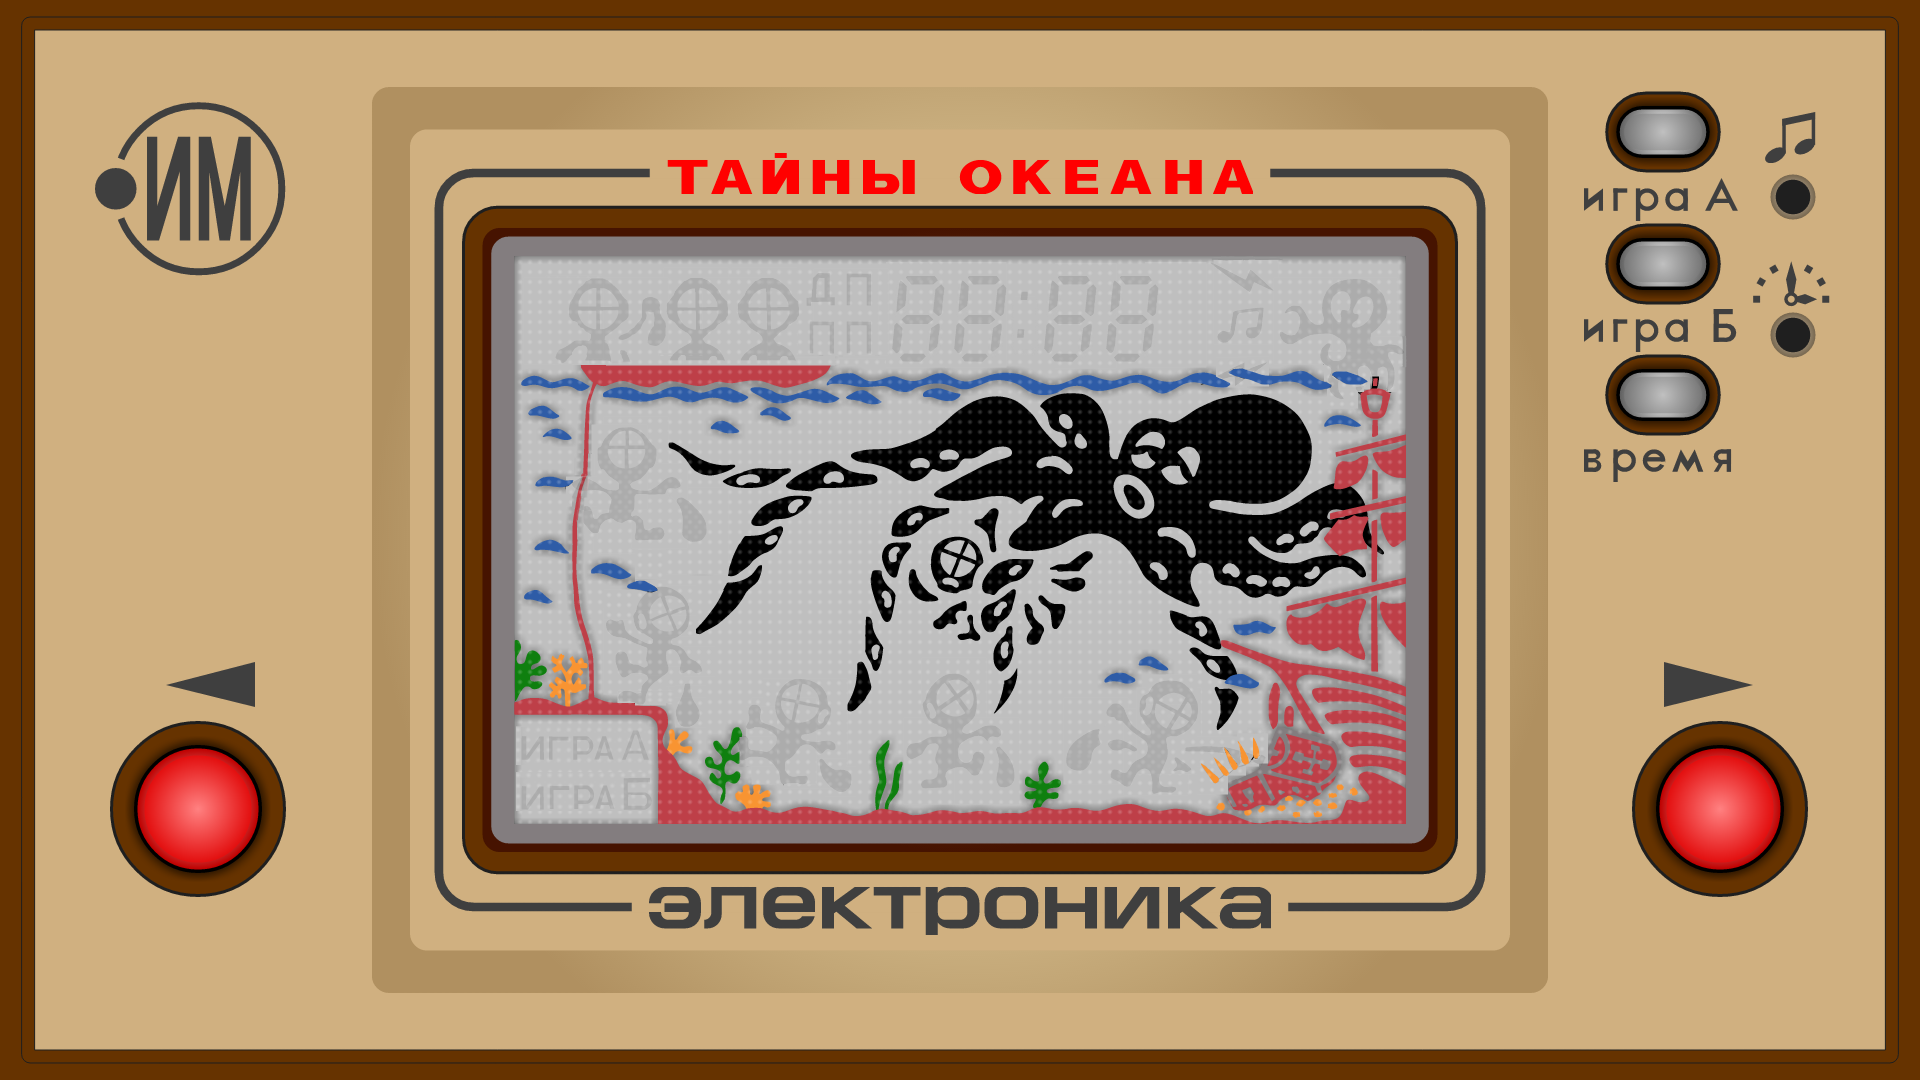
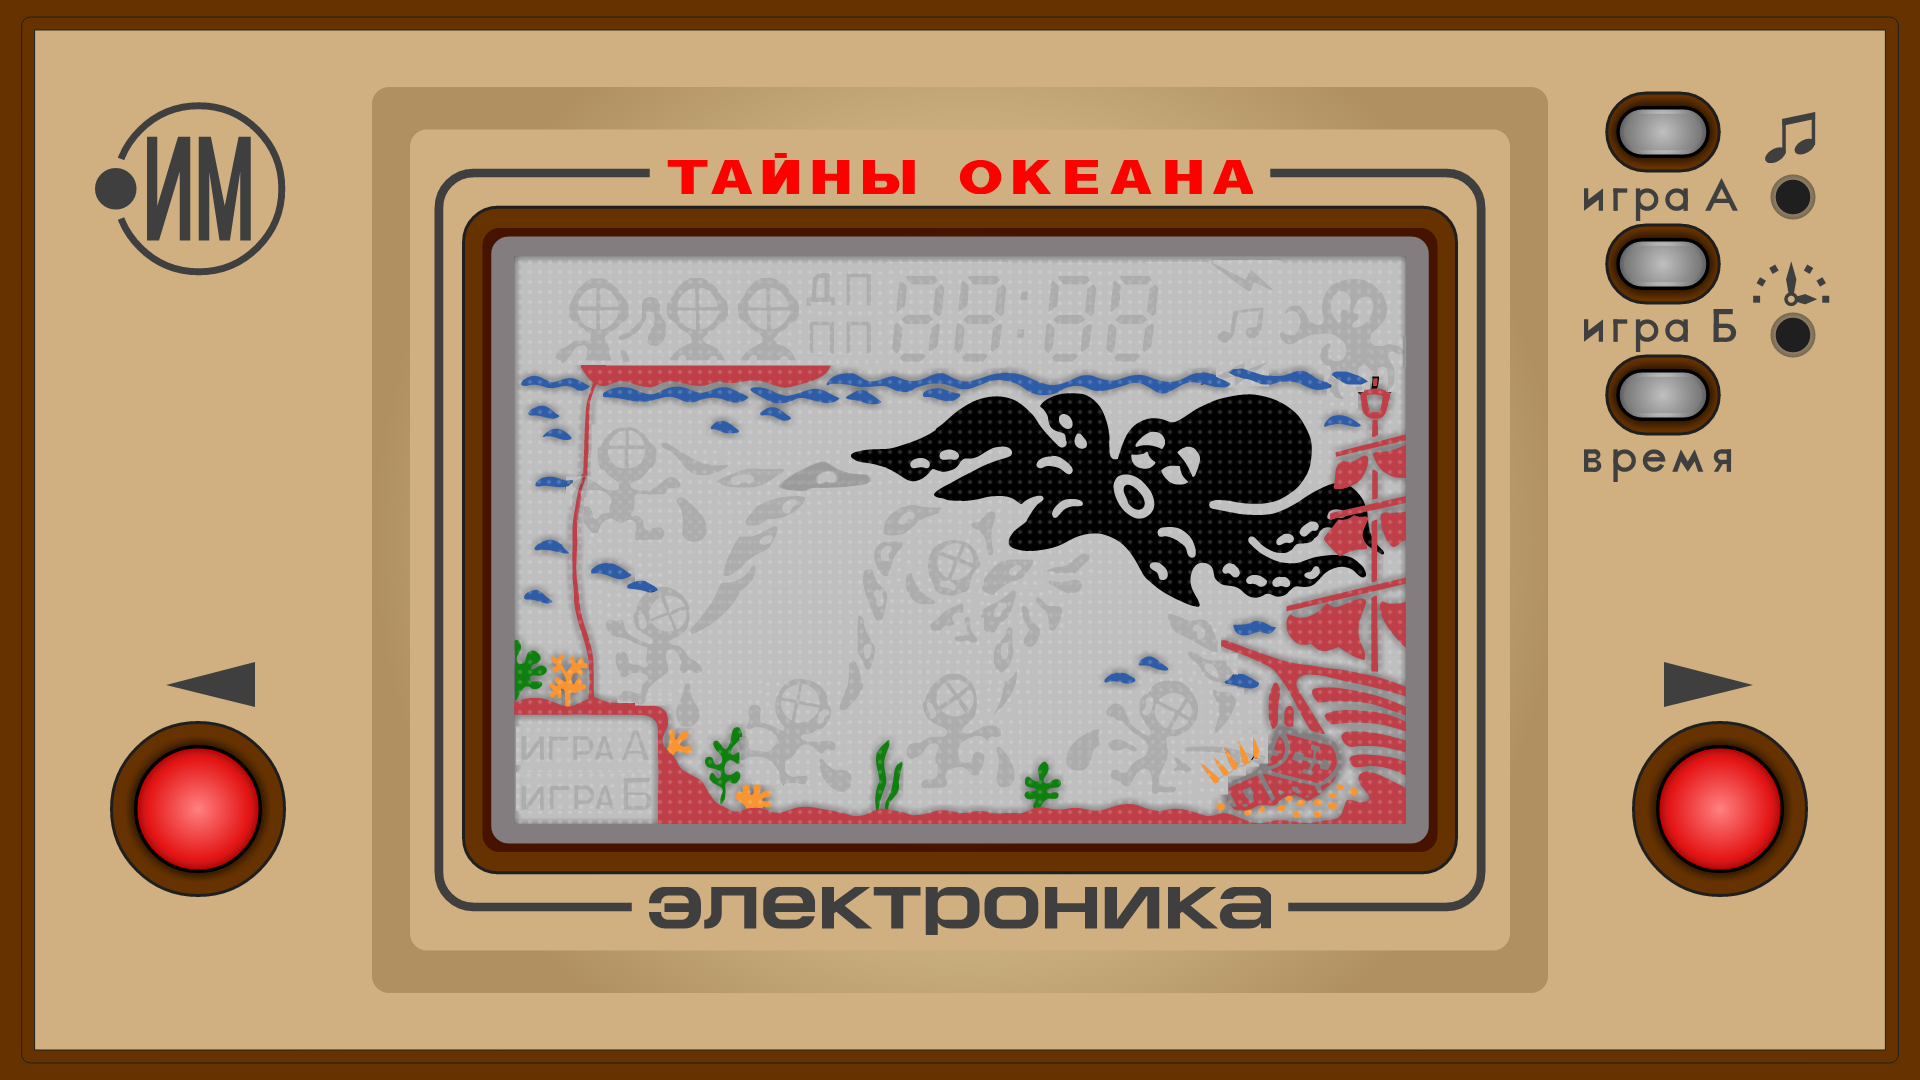
added animation of getting treasure

Changed region(s): [[0.4375, 0.4583, 0.5625, 0.6722], [0.3438, 0.3972, 0.4688, 0.5806], [0.5938, 0.55, 0.6562, 0.6722]]

diff --git a/script.js b/script.js
@@ -1,3 +1,37 @@
+class UI {
+    #digits;
+    #score = 0;
+    #pressedButton;
+
+    constructor() {
+        const digit1 = new Image();
+        digit1.src = './спрайты/интерфейс/-1.png';
+        const digit2 = new Image();
+        digit2.src = './спрайты/интерфейс/-1.png';
+        const digit3 = new Image();
+        digit3.src = './спрайты/интерфейс/-1.png';
+        const digit4 = new Image();
+        digit4.src = './спрайты/интерфейс/-1.png';
+        this.#digits = [digit1, digit2, digit3, digit4];
+
+        const pressedButton = new Image();
+        pressedButton.src = "./спрайты/интерфейс/нажатая кнопка.png"; 
+        this.#pressedButton = pressedButton;
+    }
+
+    getDigits() {
+        return this.#digits;
+    }
+    addScore() {
+        this.#score++;
+        //console.log(this.#score);
+    }
+    getPressedButton() {
+        return this.#pressedButton;
+    }
+}
+
+
 class Diver {
     #diversStates;
     #diversStatesWithoutBag;
@@ -6,45 +40,70 @@ class Diver {
     #isAlive = true;
     #isFirst = false;
     #firstBoatPos = 2;
+    #lastPos = 7;
     #leftBorder = 0;
-
-    // продумать возвращение с мешком и без мешка
-    // придумать собирание сокровища
 
     constructor() {
         const image0 = new Image();
         image0.src = './спрайты/водолазы/водолаз 12.png';
         const image2 = new Image();
-        image2.src = './спрайты/водолазы/водолаз 3.png';
+        image2.src = './спрайты/водолазы/водолаз 3 (без мешка).png';
         const image3 = new Image();
-        image3.src = './спрайты/водолазы/водолаз 4.png';
+        image3.src = './спрайты/водолазы/водолаз 4 (без мешка).png';
         const image4 = new Image();
-        image4.src = './спрайты/водолазы/водолаз 5.png';
+        image4.src = './спрайты/водолазы/водолаз 5 (без мешка).png';
         const image5 = new Image();
-        image5.src = './спрайты/водолазы/водолаз 6.png';
+        image5.src = './спрайты/водолазы/водолаз 6 (без мешка).png';
         const image6 = new Image();
-        image6.src = './спрайты/водолазы/водолаз 7.png';
-        //const image7 = new Image();
-        //image7.src = './водолазы/водолаз 12.png';
-        //const image0 = new Image();
+        image6.src = './спрайты/водолазы/водолаз 7 (без мешка).png';
+        const image7 = new Image();
+        image7.src = './спрайты/водолазы/водолаз 9 (без мешка).png';
+      
         this.#diversStatesWithoutBag = {
             0: { 'x': 550, 'y': 210, 'width': 50, 'height': 60, 'image': image0 },
             1: { 'x': 500, 'y': 210, 'width': 50, 'height': 60, 'image': image0 },
-            2: { 'x': 417, 'y': 210, 'width': 80, 'height': 60, 'image': image2 },
-            3: { 'x': 425, 'y': 320, 'width': 105, 'height': 85, 'image': image3 },
-            4: { 'x': 450, 'y': 440, 'width': 80, 'height': 100, 'image': image4 },
-            5: { 'x': 555, 'y': 505, 'width': 85, 'height': 90, 'image': image5 },
-            6: { 'x': 675, 'y': 505, 'width': 85, 'height': 90, 'image': image6 },
-            //7: { 'x': 550, 'y': 210, 'width': 50, 'height': 60, 'image': image7 },
+            2: { 'x': 415, 'y': 210, 'width': 60, 'height': 60, 'image': image2 },
+            3: { 'x': 425, 'y': 320, 'width': 85, 'height': 85, 'image': image3 },
+            4: { 'x': 455, 'y': 440, 'width': 75, 'height': 90, 'image': image4 },
+            5: { 'x': 550, 'y': 505, 'width': 80, 'height': 85, 'image': image5 },
+            6: { 'x': 680, 'y': 505, 'width': 75, 'height': 85, 'image': image6 },
+            7: { 'x': 825, 'y': 510, 'width': 75, 'height': 85, 'image': image7 },
             //...
         }
+        const image2wb = new Image();
+        image2wb.src = './спрайты/водолазы/водолаз 3.png';
+        const image3wb = new Image();
+        image3wb.src = './спрайты/водолазы/водолаз 4.png';
+        const image4wb = new Image();
+        image4wb.src = './спрайты/водолазы/водолаз 5.png';
+        const image5wb = new Image();
+        image5wb.src = './спрайты/водолазы/водолаз 6.png';
+        const image6wb = new Image();
+        image6wb.src = './спрайты/водолазы/водолаз 7.png';
+        const image7wb = new Image();
+        image7wb.src = './спрайты/водолазы/водолаз 9.png';
+        const image8wb = new Image();
+        image8wb.src = './спрайты/водолазы/водолаз 8.png';
+        const image9wb = new Image();
+        image9wb.src = './спрайты/водолазы/водолаз 10.png';
 
-        /*diversStatesWithBag = {
-
-        }*/
+        this.#diversStatesWithBag = {
+            0: { 'x': 550, 'y': 210, 'width': 50, 'height': 60, 'image': image0 },
+            1: { 'x': 500, 'y': 210, 'width': 50, 'height': 60, 'image': image0 },
+            2: { 'x': 417, 'y': 210, 'width': 80, 'height': 60, 'image': image2wb },
+            3: { 'x': 425, 'y': 320, 'width': 105, 'height': 85, 'image': image3wb },
+            4: { 'x': 450, 'y': 440, 'width': 80, 'height': 100, 'image': image4wb },
+            5: { 'x': 555, 'y': 505, 'width': 85, 'height': 90, 'image': image5wb },
+            6: { 'x': 675, 'y': 505, 'width': 85, 'height': 90, 'image': image6wb },
+            7: { 'x': 795, 'y': 510, 'width': 105, 'height': 85, 'image': image7wb },
+            8: { 'x': 794, 'y': 510, 'width': 160, 'height': 86, 'image': image8wb },
+            9: { 'x': 795, 'y': 510, 'width': 105, 'height': 85, 'image': image7wb },
+            10: { 'x': 794, 'y': 510, 'width': 105, 'height': 86, 'image': image9wb },
+        }
         
         this.#diversStates = this.#diversStatesWithoutBag;
     }
+
     setIsFirst(isFirst) {
         this.#isFirst = isFirst;
         if (isFirst) {
@@ -56,8 +115,8 @@ class Diver {
         this.#isAlive = isAlive;
         this.#isFirst = false;
     }
-    getCurrentPos() {
-        return this.#curInd;
+    isGetMoneyPos() {
+        return this.#curInd == this.#lastPos;
     }
     getIsAlive() {
         return this.#isAlive;
@@ -66,28 +125,28 @@ class Diver {
         return this.#diversStates[this.#curInd];
     }
     moveLeft() {
-        if (this.#isAlive && this.#curInd > this.#leftBorder) {
+        if (this.#isAlive && this.#curInd > this.#leftBorder && this.#curInd <= this.#lastPos) {
             this.#curInd--;
         }
     }
     moveRight() {
-        if (this.#isAlive && this.#curInd < Object.keys(this.#diversStates).length-1) {
+        if (this.#curInd == this.#lastPos) {
+            this.#diversStates = this.#diversStatesWithBag;
+        }
+        if (this.#isAlive && this.#curInd < this.#lastPos) {
             this.#curInd++;
+        }
+    }
+    getMoney() {
+        if (this.#curInd >= this.#lastPos && this.#curInd < Object.keys(this.#diversStates).length-1) {
+            this.#curInd++;
+        } else if (this.#curInd >= Object.keys(this.#diversStates).length-1) {
+            this.#curInd = this.#lastPos;
         }
     }
 }
 
-const canvas = document.getElementById('canvas');
-const ctx = canvas.getContext('2d');
-const background = new Image();
-background.src = './спрайты/фон.png';
-
-var divers = [new Diver()];
-//divers[0].setIsFirst(true);
-var currentDiver = divers[0];
-
-
-function gameLoop(divers) {
+/*function gameLoop(divers) {
 
     ctx.clearRect(0, 0, canvas.width, canvas.height);
     ctx.drawImage(background, 0, 0, canvas.width, canvas.height);
@@ -96,21 +155,110 @@ function gameLoop(divers) {
         ctx.drawImage(diverAttrs['image'], diverAttrs['x'], diverAttrs['y'], diverAttrs['width'], diverAttrs['height']);
     }
     requestAnimationFrame(() => { this.gameLoop(divers) });
+}*/
+
+function getMoneyAnimation(ui, currentDiver, obj, ctx) {
+    if (currentDiver.isGetMoneyPos() && !obj.animationGetMoneyPlay) {
+        ui.addScore();
+        obj.animationGetMoneyPlay = true;
+        var getMoney = setInterval(function() {
+            currentDiver.getMoney();
+            let diverAttrs = currentDiver.getAttrs();
+            ctx.drawImage(diverAttrs['image'], diverAttrs['x'], diverAttrs['y'], diverAttrs['width'], diverAttrs['height']);
+            obj.innerCounter++;
+            if (obj.innerCounter >= 4) {
+                obj.innerCounter = 0;
+                obj.animationGetMoneyPlay = false;
+                clearInterval(getMoney);
+            }
+        }, 200);
+    }
 }
 
 function main() {
+    var isLeftButtonPressed = false;
+    var isRightButtonPressed = false;
+
+    const canvas = document.getElementById('canvas');
+    const ctx = canvas.getContext('2d');
+    const background = new Image();
+    background.src = './спрайты/фон.png';
+
+    var ui = new UI();
+    var pressedButton = ui.getPressedButton();
+
+    var divers = [new Diver()];
+    divers[0].setIsFirst(true);
+    var currentDiver = divers[0];
     //for (let i = 0; i < divers.length; i++) {
+    var innerCounter = 0;
+    var animationGetMoneyPlay = false;
+
     window.addEventListener('keyup', function(event) {
-        
-            if (event.code == 'ArrowLeft' || event.code == 'KeyA') {
+        if (event.code == 'ArrowLeft' || event.code == 'KeyA') {
+            if (!obj.animationGetMoneyPlay) currentDiver.moveLeft();
+            isLeftButtonPressed = false;
+        } else if (event.code == 'ArrowRight' || event.code == 'KeyD') {
+            currentDiver.moveRight();
+            isRightButtonPressed = false;
+        }
+
+    });
+
+    const obj = { innerCounter: innerCounter, animationGetMoneyPlay: animationGetMoneyPlay };
+    window.addEventListener('keydown', function(event) {
+        if (event.code == 'ArrowLeft' || event.code == 'KeyA') {
+            if (!animationGetMoneyPlay) isLeftButtonPressed = true;
+        } else if (event.code == 'ArrowRight' || event.code == 'KeyD') {
+            if (!animationGetMoneyPlay) isRightButtonPressed = true;
+            getMoneyAnimation(ui, currentDiver, obj, ctx);
+        }
+    });
+
+    window.addEventListener('mousedown', function(event) {
+        if (event.which == 1) {
+            var rect = canvas.getBoundingClientRect();
+            const clickX = event.clientX - rect.left;
+            const clickY = event.clientY - rect.top; 
+            if (clickX >= 100 && clickX <= 200 && clickY >= 557 && clickY <= 657) {
+                isLeftButtonPressed = true;
+            } else if (clickX >= 1240 && clickX <= 1340 && clickY >= 557 && clickY <= 657) {
+                isRightButtonPressed = true;
+                getMoneyAnimation(ui, currentDiver, obj, ctx);
+            }
+        }
+    });
+    window.addEventListener('mouseup', function(event) {
+        if (event.which == 1) {
+            var rect = canvas.getBoundingClientRect();
+            const clickX = event.clientX - rect.left;
+            const clickY = event.clientY - rect.top; 
+            if (clickX >= 100 && clickX <= 200 && clickY >= 557 && clickY <= 657) {
+                isLeftButtonPressed = false;
                 currentDiver.moveLeft();
-            } else if (event.code == 'ArrowRight' || event.code == 'KeyD') {
+            } else if (clickX >= 1240 && clickX <= 1340 && clickY >= 557 && clickY <= 657) {
+                isRightButtonPressed = false;
                 currentDiver.moveRight();
             }
-        
+        }
     });
-//}
-    gameLoop(divers);
+    
+    setInterval(function() {
+        ctx.clearRect(0, 0, canvas.width, canvas.height);
+        ctx.drawImage(background, 0, 0, canvas.width, canvas.height);
+        for (let i = 0; i < divers.length; i++) {
+            let diverAttrs = divers[i].getAttrs();
+            ctx.drawImage(diverAttrs['image'], diverAttrs['x'], diverAttrs['y'], diverAttrs['width'], diverAttrs['height']);
+        }
+        if (isLeftButtonPressed) {
+            ctx.drawImage(pressedButton, 100, 557, 100, 100);
+        } else if (isRightButtonPressed) {
+            ctx.drawImage(pressedButton, 1240, 557, 100, 100);
+        }
+        
+        
+    }, 20);
+    //gameLoop(divers);
 }
 
 main();
